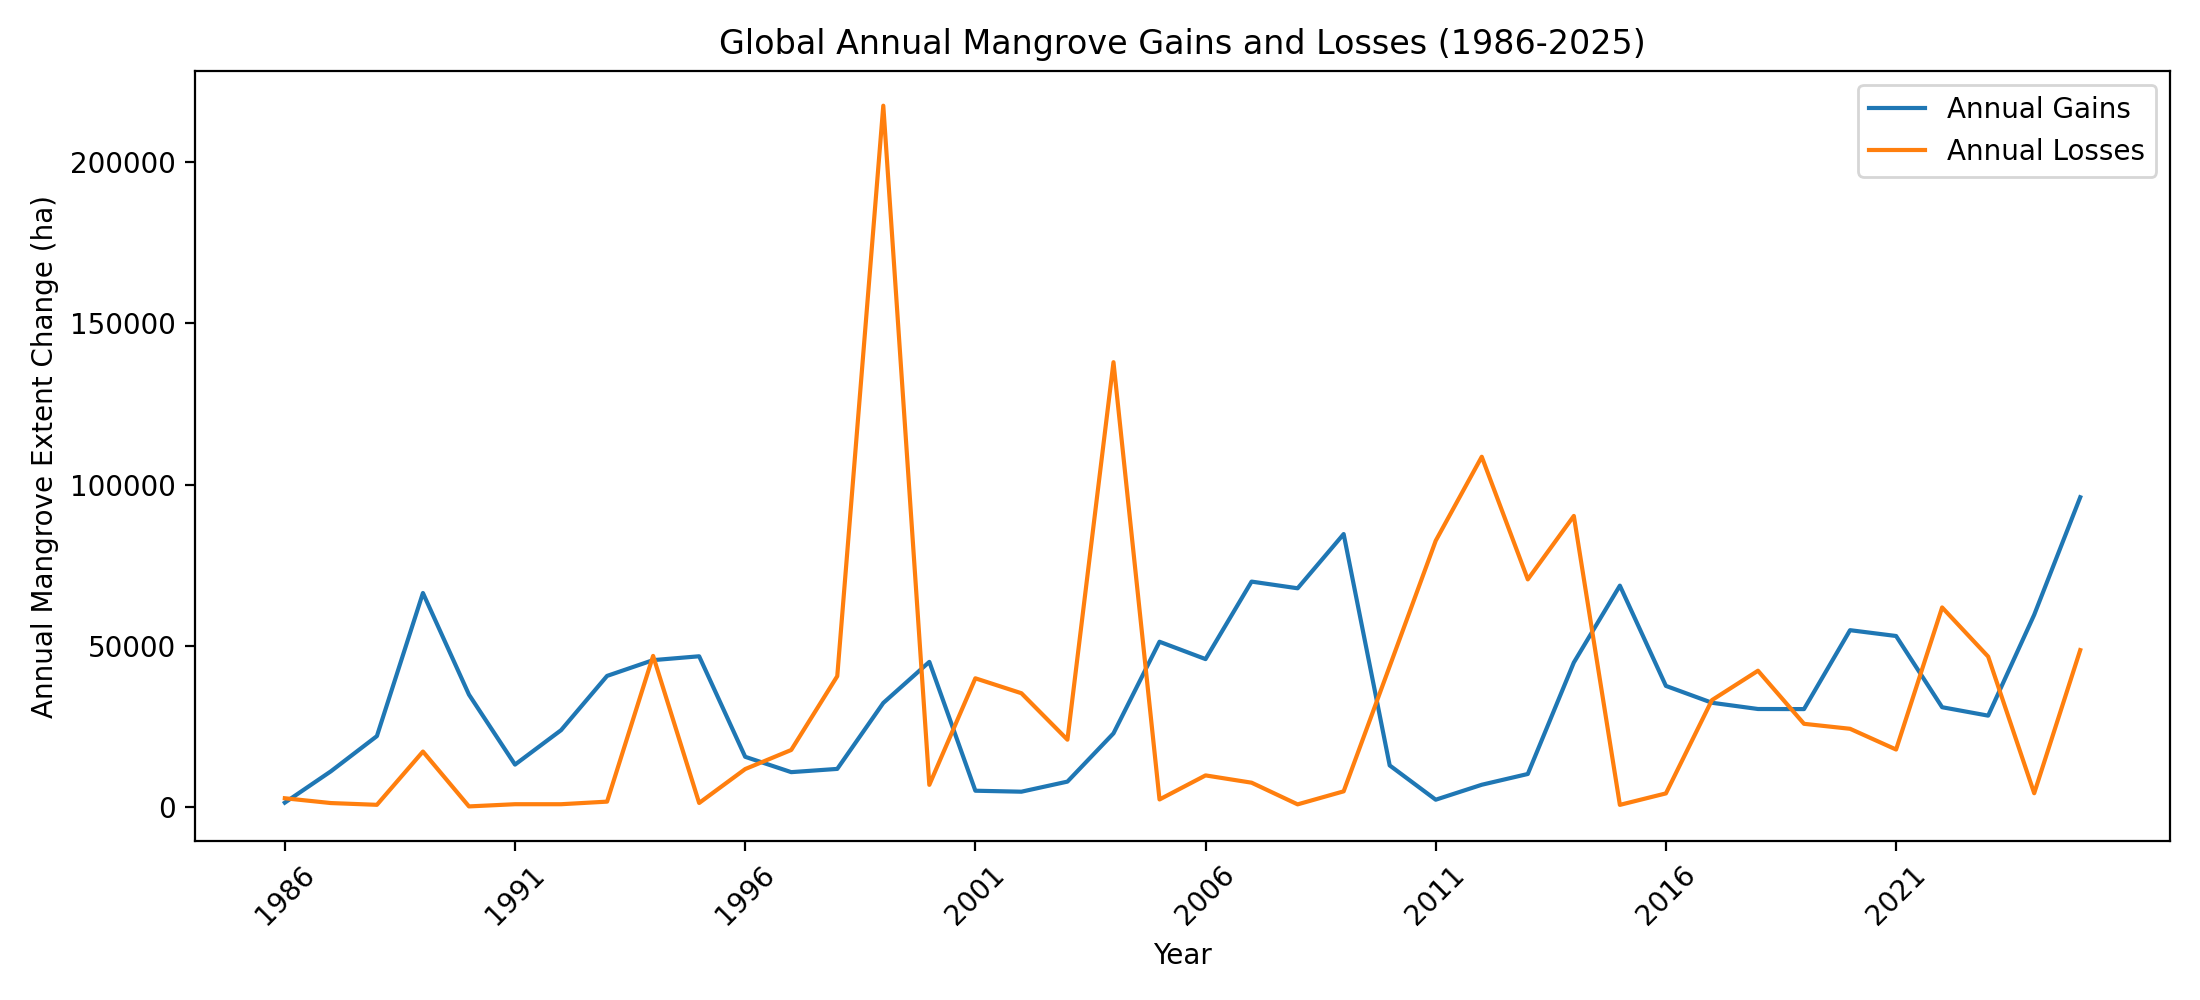
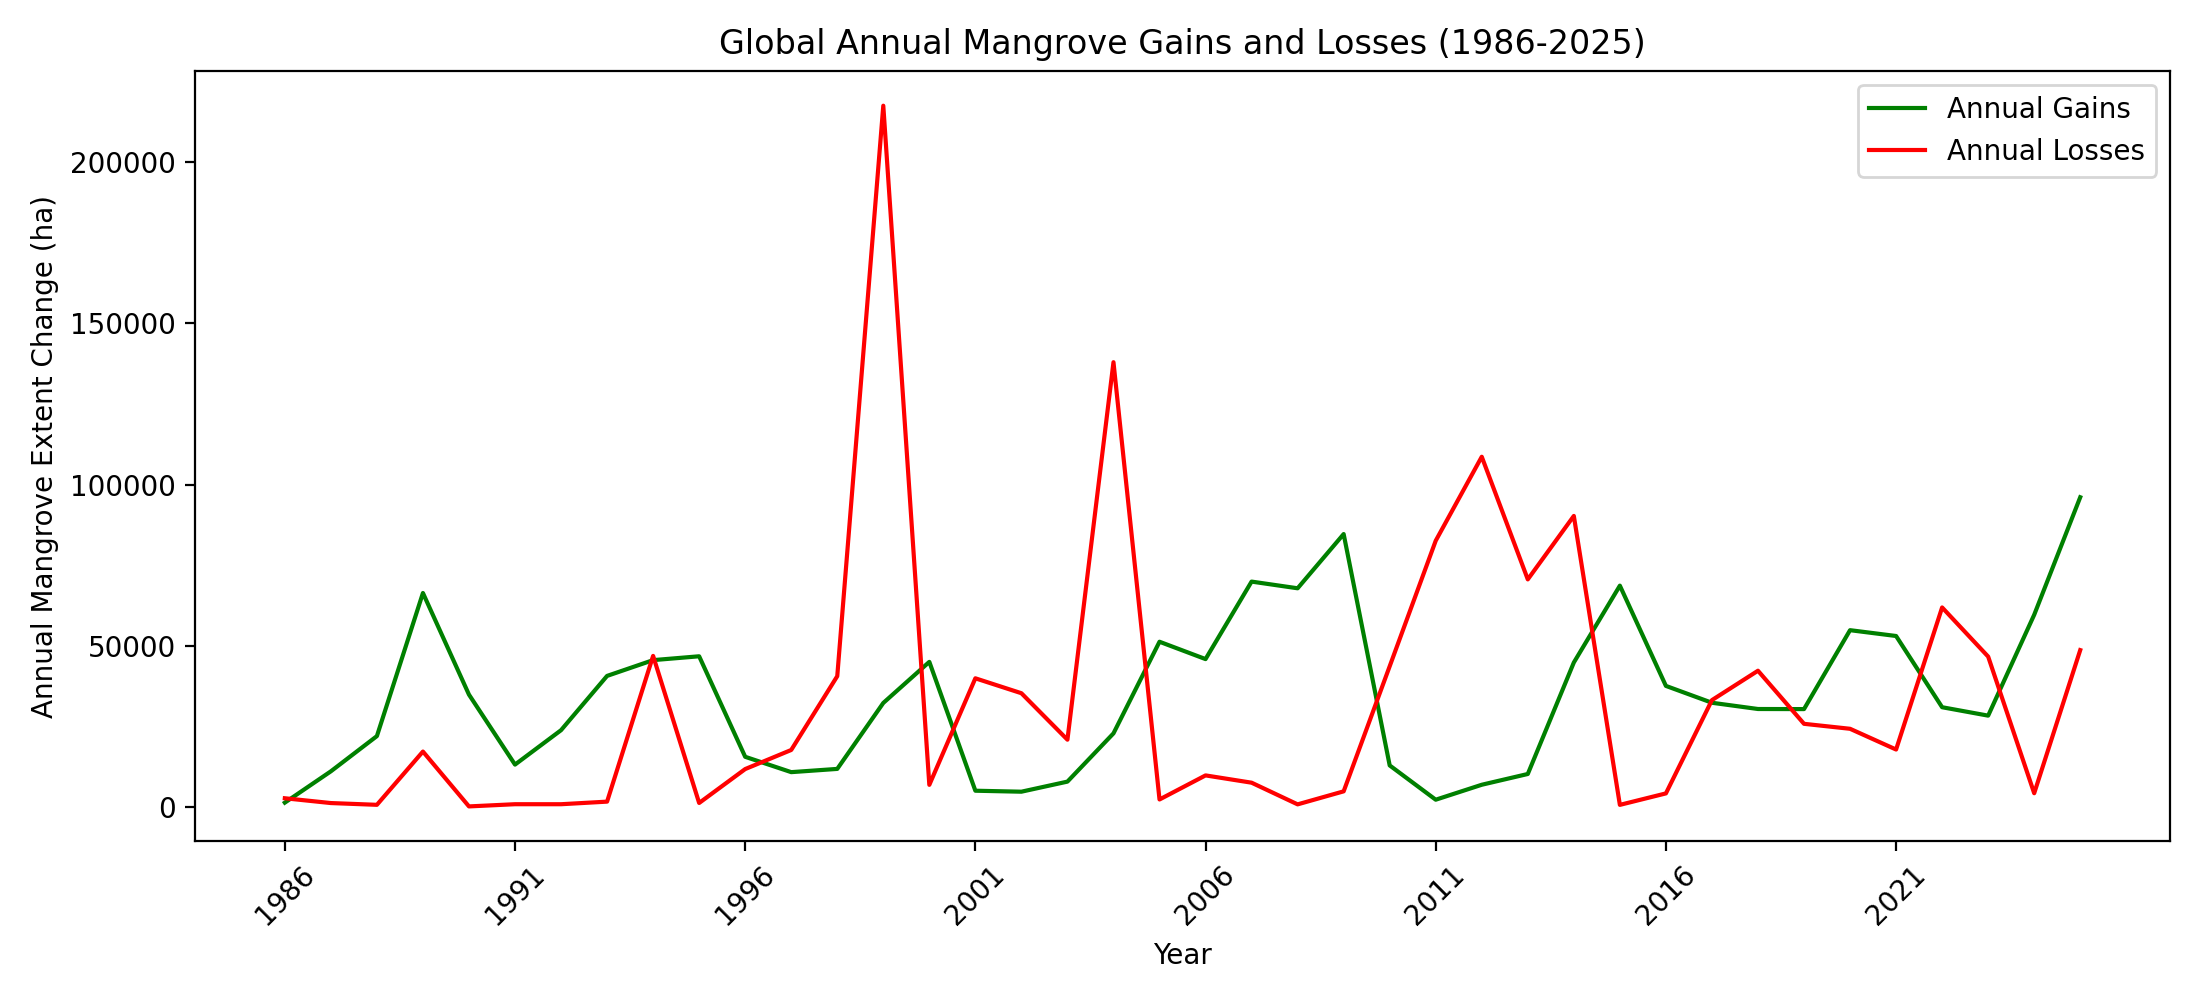
changes to py files

diff --git a/Python Files/mangrove_analysis.py b/Python Files/mangrove_analysis.py
@@ -1,7 +1,6 @@
-"""
-Analyze country-level mangrove area from 1985 through 2025.
+"""Analyze country-level mangrove area from 1985 through 2025.
 
-Run this file from the project folder with: python mangrove_analysis.py
+Run this file from the Python Files folder with: python mangrove_analysis.py
 Graphs and tables are saved in the eda_outputs folder.
 """
 
@@ -17,16 +16,12 @@ OUTPUT_FOLDER = "eda_outputs"
 
 
 def get_years(data):
-    """
-    Return the year columns, ordered from earliest to latest.
-    """
+    """Return the year columns, ordered from earliest to latest."""
     return sorted(data.columns[2:])
 
 
 def clean_data(data):
-    """
-    Keep country rows and convert mangrove areas to numbers.
-    """
+    """Keep country rows and convert mangrove areas to numbers."""
     # Rows without an ISO code are blank or summary rows, not countries.
     countries = data.dropna(subset=["iso", "cnty_name"]).copy()
     years = get_years(countries)
@@ -44,25 +39,19 @@ def clean_data(data):
 
 
 def annual_changes(data):
-    """
-    Calculate each country's change from the previous year in hectares.
-    """
+    """Calculate each country's change from the previous year in hectares."""
     return data[get_years(data)].diff(axis=1)
 
 
 def annual_variability(data):
-    """
-    Measure how much each country's annual changes vary over time.
-    """
+    """Measure how much each country's annual changes vary over time."""
     variability = annual_changes(data).std(axis=1)
     variability.index = data["cnty_name"]
     return variability
 
 
 def percent_changes(data):
-    """
-    Calculate annual percentage changes, keeping undefined values empty.
-    """
+    """Calculate annual percentage changes, keeping undefined values empty."""
     changes = data[get_years(data)].pct_change(
         axis=1, fill_method=None
     ) * 100
@@ -70,9 +59,7 @@ def percent_changes(data):
 
 
 def country_extremes(data):
-    """
-    Find each country's largest one-year increase and decrease.
-    """
+    """Find each country's largest one-year increase and decrease."""
     changes = annual_changes(data)
     increases = changes.max(axis=1)
     decreases = changes.min(axis=1)
@@ -82,9 +69,7 @@ def country_extremes(data):
 
 
 def net_changes(data):
-    """
-    Calculate each country's change between 1985 and 2025.
-    """
+    """Calculate each country's change between 1985 and 2025."""
     years = get_years(data)
     changes = data[years[-1]] - data[years[0]]
     changes.index = data["cnty_name"]
@@ -92,16 +77,12 @@ def net_changes(data):
 
 
 def global_extent(data):
-    """
-    Sum the mangrove area of all countries for each year.
-    """
+    """Sum the mangrove area of all countries for each year."""
     return data[get_years(data)].sum(axis=0)
 
 
 def global_gains_losses(data):
-    """
-    Total positive and negative country changes for each year.
-    """
+    """Total positive and negative country changes for each year."""
     # Leave out 1985 because it has no earlier year for comparison.
     changes = annual_changes(data).iloc[:, 1:]
     gains = changes.clip(lower=0).sum(axis=0)
@@ -110,9 +91,7 @@ def global_gains_losses(data):
 
 
 def save_country_bar(values, title, ylabel, filename):
-    """
-    Save a bar graph comparing up to ten countries.
-    """
+    """Save a bar graph comparing up to ten countries."""
     if values.empty:
         return
 
@@ -128,8 +107,7 @@ def save_country_bar(values, title, ylabel, filename):
 
 
 def save_plots(data):
-    """
-    Save six graphs showing global trends and country-level changes.
+    """Save six graphs showing global trends and country-level changes.
 
     The graphs show global extent, annual gains and losses, largest one-year
     increases, largest one-year decreases, net gains, and net losses.
@@ -155,8 +133,8 @@ def save_plots(data):
     # 2. Compare yearly increases and decreases across all countries.
     # Both lines show positive magnitudes to make them easier to compare.
     plt.figure(figsize=(11, 5))
-    plt.plot(gains.index, gains.values, label="Annual Gains")
-    plt.plot(losses.index, losses.values, label="Annual Losses")
+    plt.plot(gains.index, gains.values, label="Annual Gains", color="green")
+    plt.plot(losses.index, losses.values, label="Annual Losses", color="red")
     plt.xlabel("Year")
     plt.ylabel("Annual Mangrove Extent Change (ha)")
     plt.title("Global Annual Mangrove Gains and Losses (1986-2025)")
@@ -196,12 +174,12 @@ def save_plots(data):
     )
 
     # 6. Countries with the greatest overall losses from 1985 to 2025.
-    # Keep losses negative because this graph shows net change.
+    # Display loss amounts as positive values so bars extend upward.
     biggest_losses = total_changes[total_changes < 0].nsmallest(10)
     save_country_bar(
-        biggest_losses,
+        biggest_losses.abs(),
         "Top 10 Countries by Net Mangrove Loss (1985-2025)",
-        "Net Change in Mangrove Extent (ha)",
+        "Net Mangrove Loss (ha)",
         "06_net_losses.png"
     )
 

diff --git a/Python Files/.ipynb_checkpoints/mangrove_analysis-checkpoint.py b/Python Files/.ipynb_checkpoints/mangrove_analysis-checkpoint.py
@@ -1,6 +1,6 @@
 """Analyze country-level mangrove area from 1985 through 2025.
 
-Run this file from the project folder with: python mangrove_analysis.py
+Run this file from the Python Files folder with: python mangrove_analysis.py
 Graphs and tables are saved in the eda_outputs folder.
 """
 
@@ -133,8 +133,8 @@ def save_plots(data):
     # 2. Compare yearly increases and decreases across all countries.
     # Both lines show positive magnitudes to make them easier to compare.
     plt.figure(figsize=(11, 5))
-    plt.plot(gains.index, gains.values, label="Annual Gains")
-    plt.plot(losses.index, losses.values, label="Annual Losses")
+    plt.plot(gains.index, gains.values, label="Annual Gains", color="green")
+    plt.plot(losses.index, losses.values, label="Annual Losses", color="red")
     plt.xlabel("Year")
     plt.ylabel("Annual Mangrove Extent Change (ha)")
     plt.title("Global Annual Mangrove Gains and Losses (1986-2025)")
@@ -174,12 +174,12 @@ def save_plots(data):
     )
 
     # 6. Countries with the greatest overall losses from 1985 to 2025.
-    # Keep losses negative because this graph shows net change.
+    # Display loss amounts as positive values so bars extend upward.
     biggest_losses = total_changes[total_changes < 0].nsmallest(10)
     save_country_bar(
-        biggest_losses,
+        biggest_losses.abs(),
         "Top 10 Countries by Net Mangrove Loss (1985-2025)",
-        "Net Change in Mangrove Extent (ha)",
+        "Net Mangrove Loss (ha)",
         "06_net_losses.png"
     )
 
